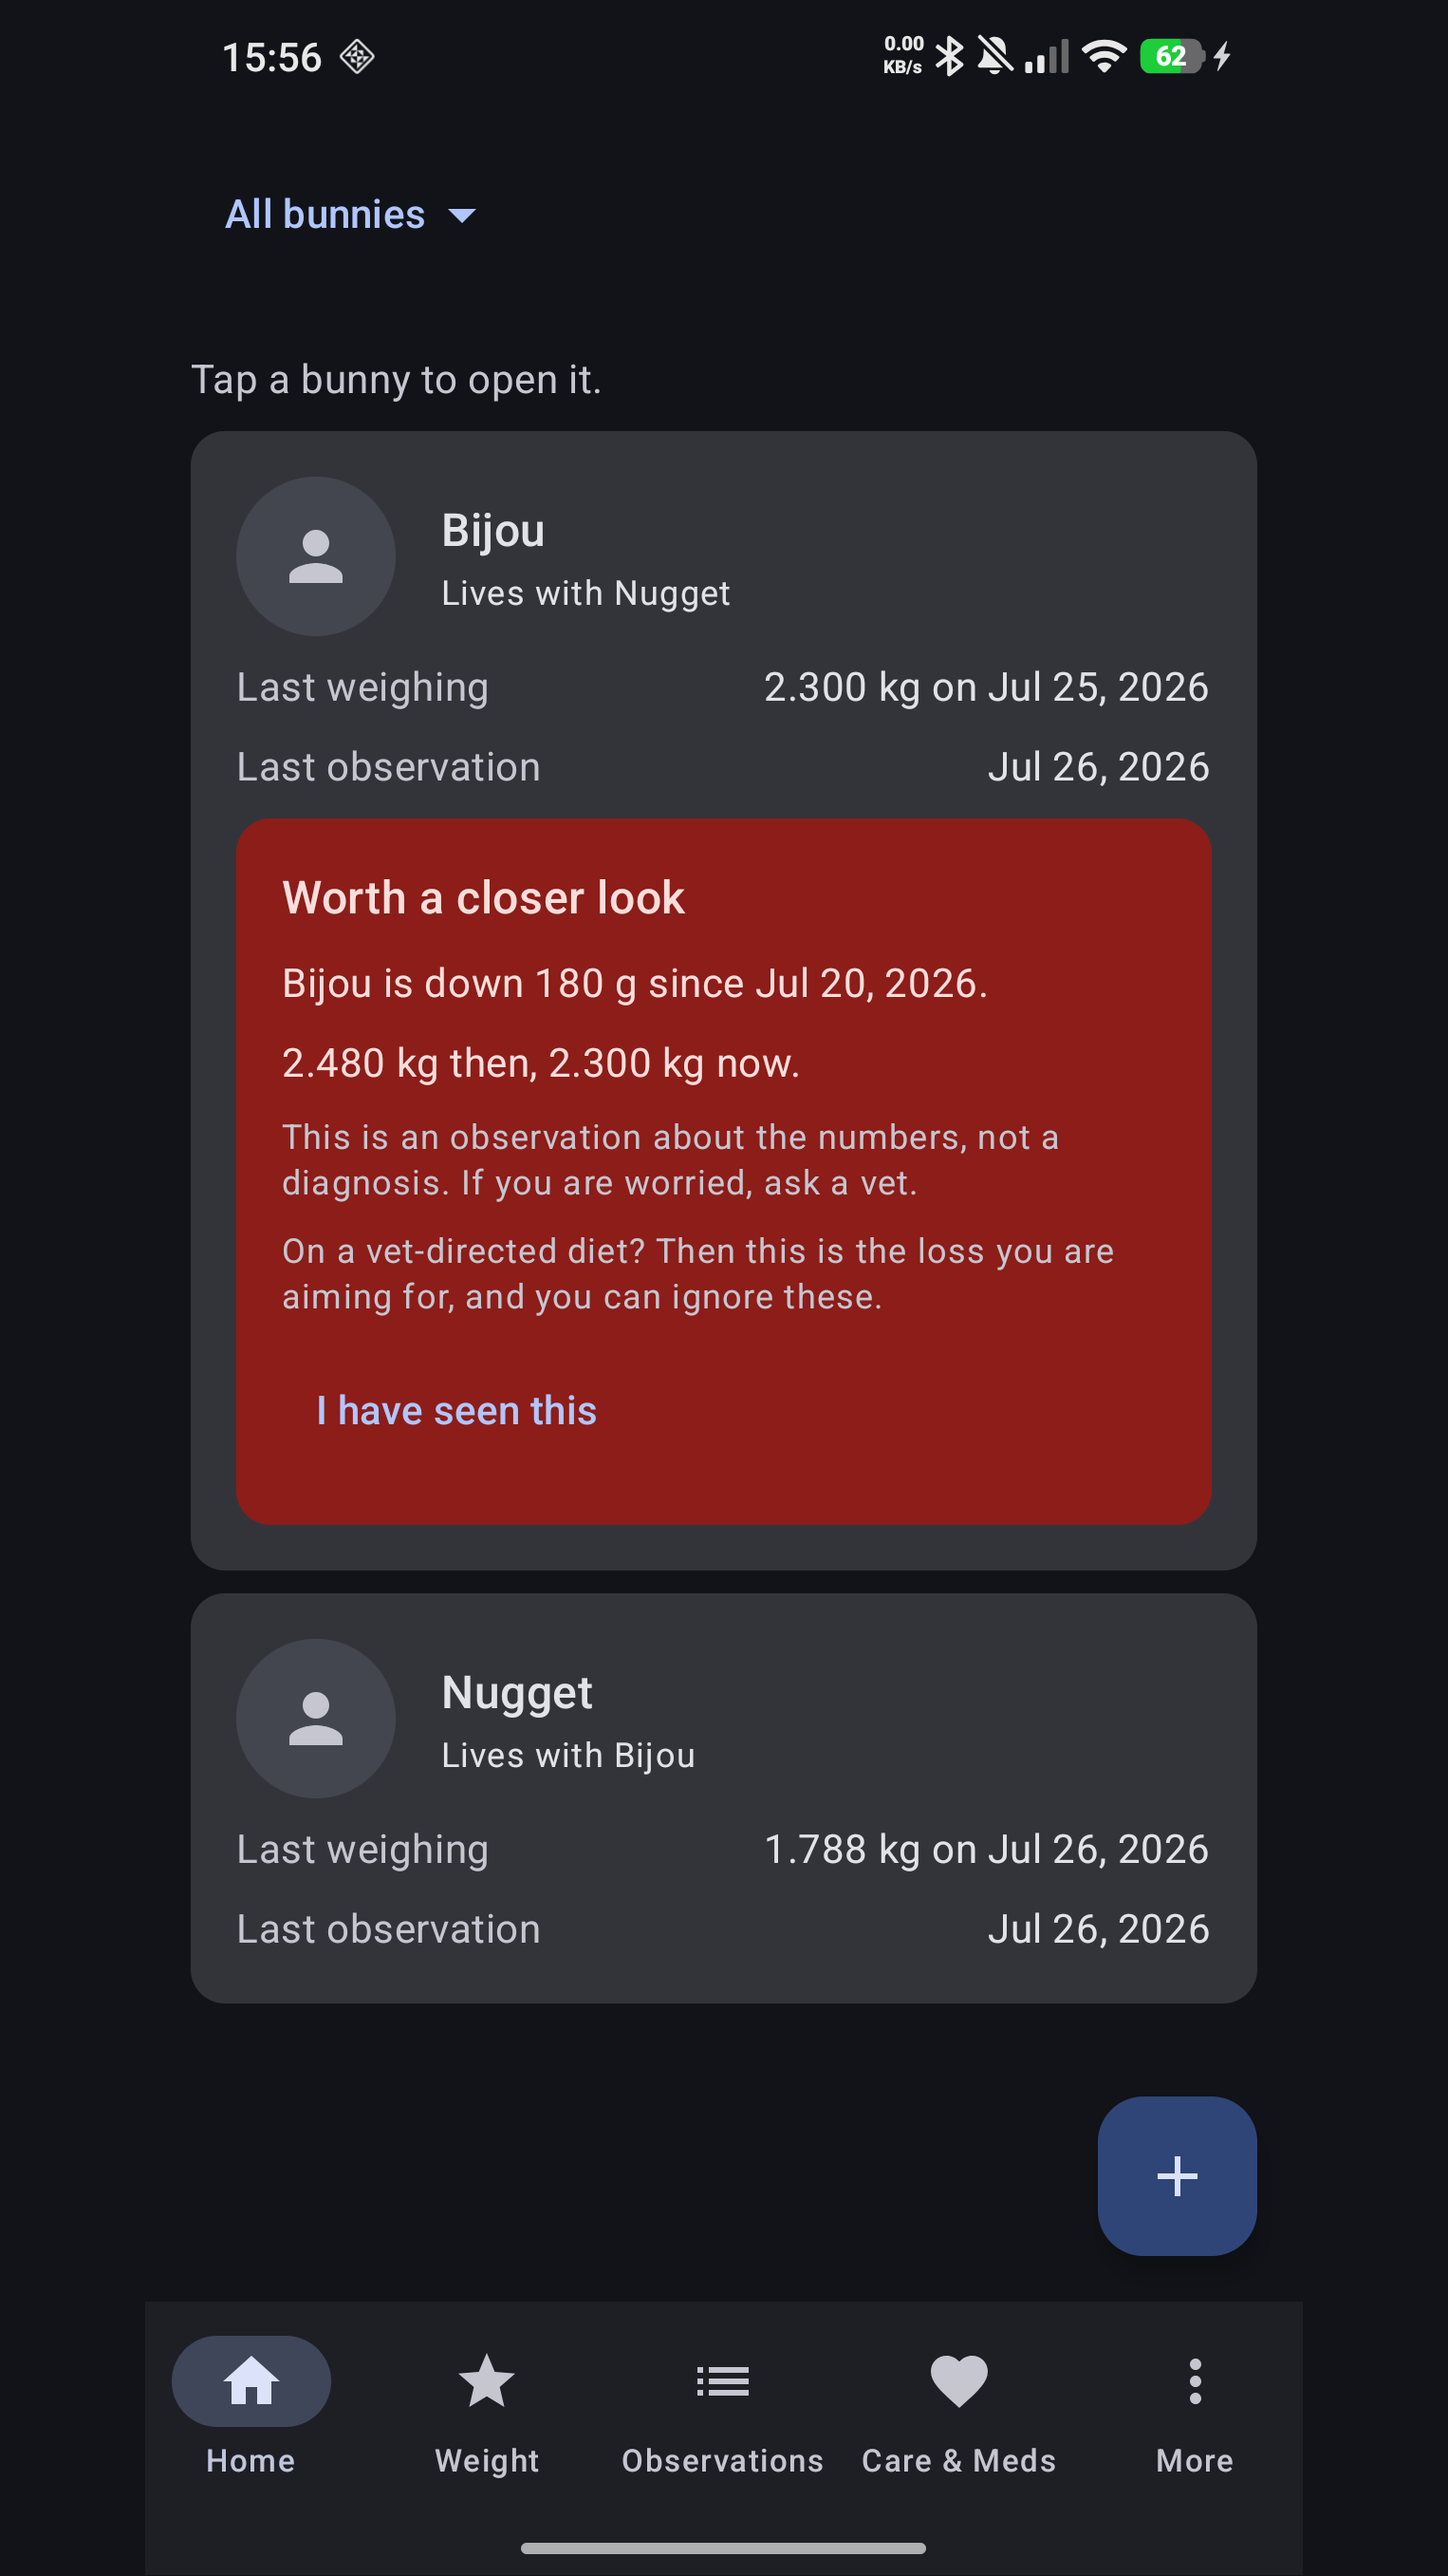
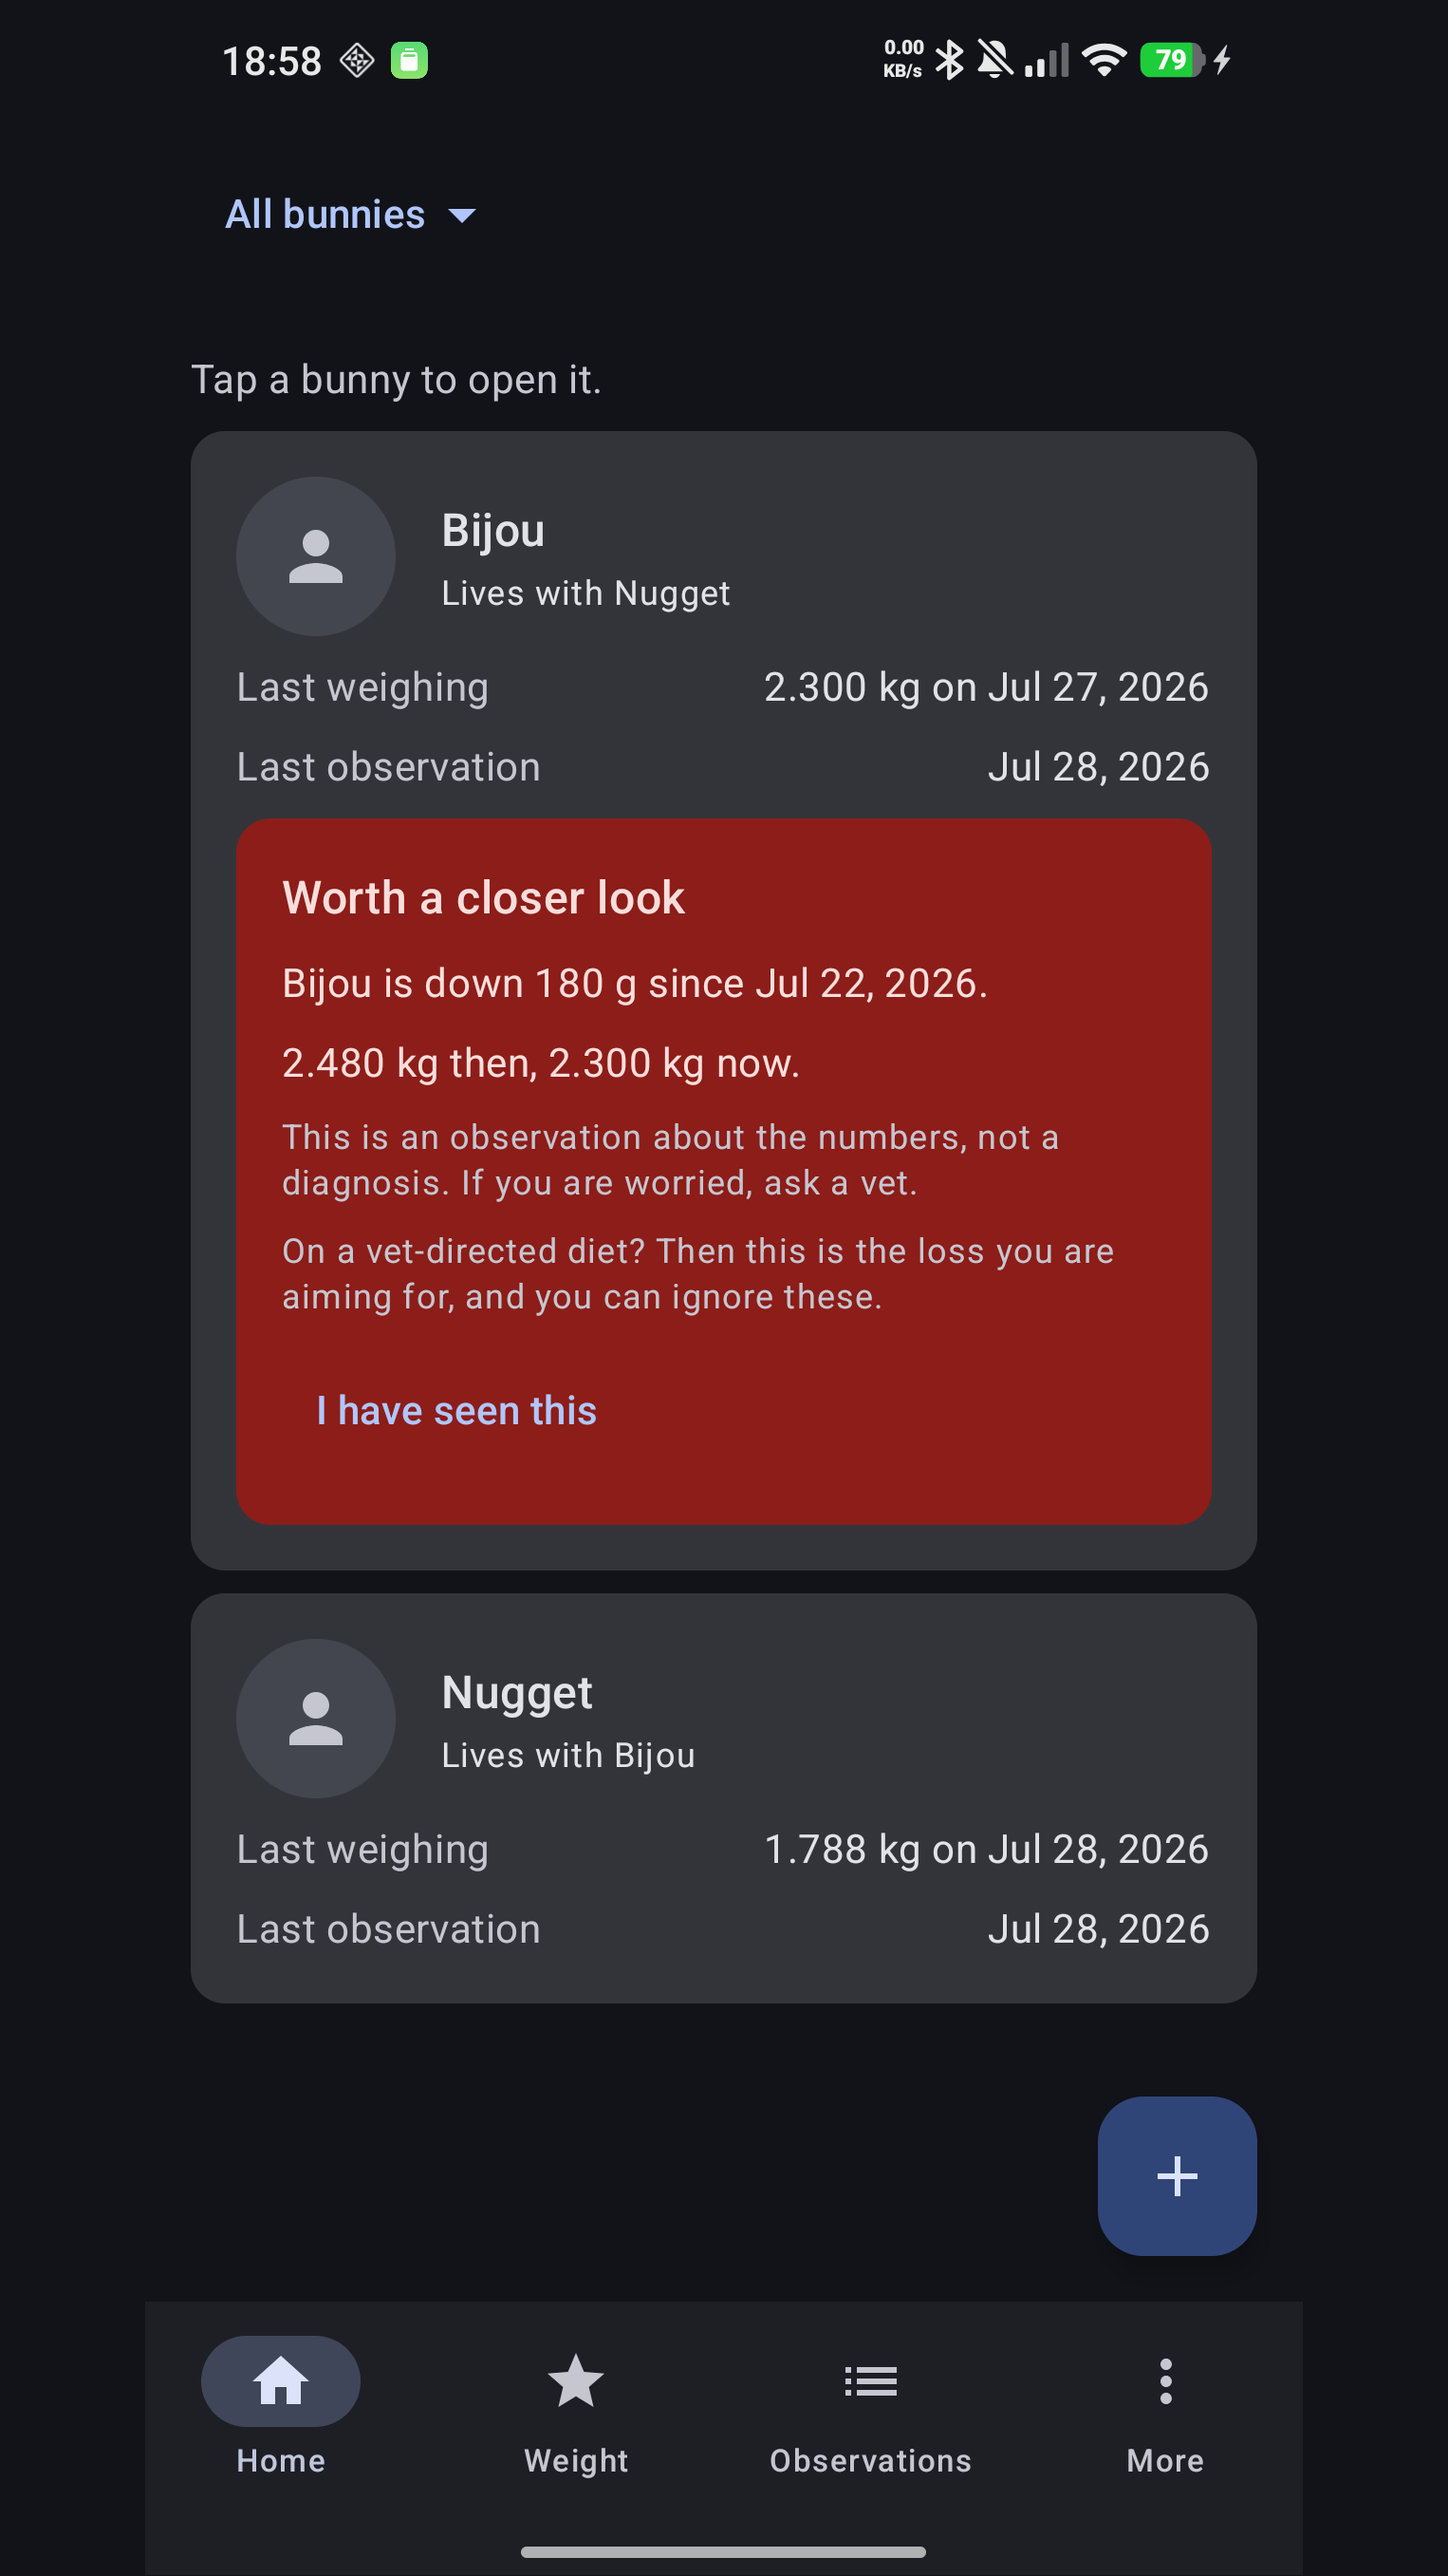
docs: replace the placeholder screenshots with real ones from the Play build
Captured from the build Google Play delivered to the Xiaomi, running the debug
fixture's data restored into it through the SAF picked-file path — not a locally
signed build, not an emulator. That provenance is the point of taking them at 3h
rather than at 3a.

Four, not the five 3h planned. The gallery was dropped: SampleData.writeSampleJpeg
writes solid-colour JPEGs, because the fixture exists to exercise the media
pipeline rather than to look like anything, so the gallery photographs as four
flat rectangles. Shipping that reads as a broken app. Play's minimum is two.

Padded from the phone's native 1220x2712 to 1526x2713 because Play caps screenshot
aspect at 2:1 and the raw capture is 2.22:1 — the padding is a requirement, not a
style choice. Fill is #121318, the app's own dark surface, so the bars are invisible.

diff --git a/docs/store-listing.md b/docs/store-listing.md
@@ -38,7 +38,7 @@ Polish second-person forms are gendered, so the copy avoids them — `co został
 | Privacy policy URL | `https://srednimax.github.io/binky-app/privacy-policy.html` |
 | App icon (512²) | [`art/play-icon-512.png`](../art/play-icon-512.png) |
 | Feature graphic (1024×500) | [`art/play-feature-graphic.png`](../art/play-feature-graphic.png) |
-| Phone screenshots (1526×2713) | [`art/play-screenshot-1-home.png`](../art/play-screenshot-1-home.png), [`art/play-screenshot-2-weight.png`](../art/play-screenshot-2-weight.png) — placeholders until 3h |
+| Phone screenshots (1526×2713) | [`1-home`](../art/play-screenshot-1-home.png), [`2-weight`](../art/play-screenshot-2-weight.png), [`3-observations`](../art/play-screenshot-3-observations.png), [`4-backup`](../art/play-screenshot-4-backup.png) — real, from the Play build at 3h |
 | App category | Lifestyle |
 | Contact email | the per-app support address, set in Store settings — not the account-level developer email |
 
@@ -168,10 +168,21 @@ Binky nie powie Ci, czy Twój królik jest chory, i nigdy nie wnioskuje problemu
 
 ## Open
 
-- **Screenshots** are still 3a's two placeholders. 3g deferred the real ones to **3h**, where five are
-  taken from the release build carrying the debug fixture's data: Home's vitals card with the trend
-  flag, the chart at 90 d, the observation timeline with a shared entry, the gallery, and the backup
-  screen. Polish ones are a separate set that lands with the Polish listing at 3j — each locale's
+- **Screenshots are real as of 3h** — captured from the build Play delivered, running the debug
+  fixture's data restored into it through the picked-file path. Not from a locally signed build and
+  not from an emulator. Captured at the phone's native 1220×2712 and padded to 1526×2713, which is
+  exactly 9:16; Play's screenshot aspect limit is 2:1 and the raw capture is 2.22:1, so the padding is
+  a requirement rather than a style choice. The fill is `#121318`, the app's own dark surface, so the
+  side bars are invisible.
+
+  **Four, not the five 3h planned.** The gallery shot was dropped: the sample seeder writes
+  solid-colour JPEGs (`SampleData.writeSampleJpeg`) because the fixture exists to exercise the media
+  pipeline, not to look like anything, so the gallery photographs as four flat rectangles. Shipping
+  that would read as a broken app; staging it would have meant putting real photos in. Play requires a
+  minimum of two. Revisit when there are real photos worth showing — the full description's PHOTOS
+  section is currently the only place that claim is made.
+
+  Polish screenshots are a separate set that lands with the Polish listing at 3j — each locale's
   screenshots are uploaded per listing.
 - **One sentence comes back at 3j**, in the English description, after `• Free, with no paid tier and
   nothing locked`:
